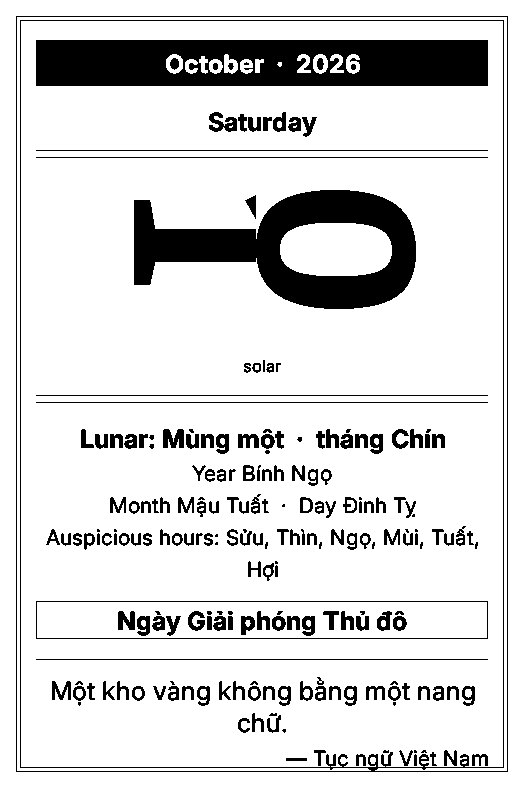
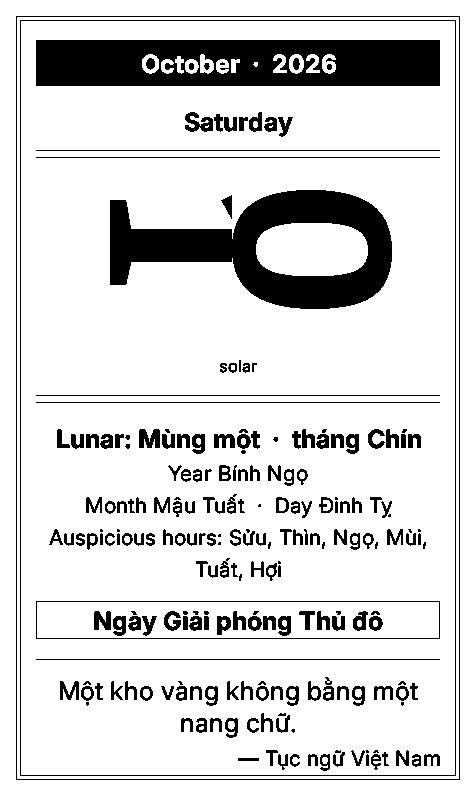
fix(calendar): share readLocalDateTime with the calendar sleep screen
CalendarBlockScreen had its own RTC and offset helper which bailed in simulator builds where HalClock starts unavailable. Passing the validated local date from SleepActivity reuses the existing fallback to session time and keeps the calendar screen rendering identically across simulated and physical targets.

diff --git a/src/components/calendar/CalendarBlockScreen.cpp b/src/components/calendar/CalendarBlockScreen.cpp
@@ -1,7 +1,6 @@
 #include "CalendarBlockScreen.h"
 
 #include <GfxRenderer.h>
-#include <HalClock.h>
 #include <I18n.h>
 #include <LunarCalendar.h>
 
@@ -112,59 +111,6 @@ constexpr int kHeroDigitGap = 10;  // space between two day digits
 constexpr uint16_t kMinSolarYear = 1900;
 constexpr uint16_t kMaxSolarYear = 2100;
 
-void shiftDay(uint16_t& year, uint8_t& month, uint8_t& day, const int delta) {
-  if (delta == 0) return;
-  if (delta > 0) {
-    if (static_cast<int>(day) < gregorianDaysInMonth(month, year)) {
-      day++;
-      return;
-    }
-    day = 1;
-    if (month == 12) {
-      month = 1;
-      year++;
-    } else {
-      month++;
-    }
-    return;
-  }
-  if (day > 1) {
-    day--;
-    return;
-  }
-  if (month == 1) {
-    month = 12;
-    year--;
-  } else {
-    month--;
-  }
-  day = static_cast<uint8_t>(gregorianDaysInMonth(month, year));
-}
-
-// The RTC keeps UTC; the printed page must show the wall-clock day, which rolls
-// over at local midnight exactly like HalClock::formatDate().
-bool localDate(uint16_t& year, uint8_t& month, uint8_t& day) {
-  uint16_t utcYear = 0;
-  uint8_t utcMonth = 0;
-  uint8_t utcDay = 0;
-  uint8_t hour = 0;
-  uint8_t minute = 0;
-  if (!halClock.getDateTime(utcYear, utcMonth, utcDay, hour, minute)) return false;
-
-  uint8_t offsetQuarterHours = SETTINGS.clockUtcOffsetQ;
-  if (offsetQuarterHours > 104) offsetQuarterHours = 104;
-  const int localMinutes =
-      static_cast<int>(hour) * 60 + static_cast<int>(minute) + (static_cast<int>(offsetQuarterHours) - 48) * 15;
-  const int dayDelta = localMinutes < 0 ? -1 : (localMinutes >= 1440 ? 1 : 0);
-
-  year = utcYear;
-  month = utcMonth;
-  day = utcDay;
-  shiftDay(year, month, day, dayDelta);
-  if (month < 1 || month > 12) return false;
-  return day >= 1 && static_cast<int>(day) <= gregorianDaysInMonth(month, year);
-}
-
 float configuredTimeZoneHours() {
   uint8_t offsetQuarterHours = SETTINGS.clockUtcOffsetQ;
   if (offsetQuarterHours > 104) offsetQuarterHours = 104;
@@ -230,7 +176,7 @@ void drawCenteredFitted(const GfxRenderer& renderer, const int fontId, const int
 }
 
 void drawHeroDay(const GfxRenderer& renderer, const int centerX, const int top, const uint8_t day) {
-  char digits[3] = {0, 0, 0};
+  char digits[8] = {0};
   std::snprintf(digits, sizeof(digits), "%u", static_cast<unsigned>(day));
   const int count = static_cast<int>(std::strlen(digits));
 
@@ -253,16 +199,12 @@ void drawHeroDay(const GfxRenderer& renderer, const int centerX, const int top, 
 
 }  // namespace
 
-bool draw(const GfxRenderer& renderer) {
-  uint16_t year = 0;
-  uint8_t month = 0;
-  uint8_t day = 0;
-  if (!localDate(year, month, day)) {
-    return false;
-  }
-  if (year < kMinSolarYear || year > kMaxSolarYear) {
-    return false;
-  }
+bool draw(const GfxRenderer& renderer, const uint16_t year, const uint8_t month, const uint8_t day) {
+  // The caller hands over a local date; validate it before printing anything, so
+  // an unset RTC falls back to the default screen instead of inventing a page.
+  if (year < kMinSolarYear || year > kMaxSolarYear) return false;
+  if (month < 1 || month > 12) return false;
+  if (day < 1 || static_cast<int>(day) > gregorianDaysInMonth(month, year)) return false;
 
   const LunarDate lunar = solarToLunar(day, month, year, configuredTimeZoneHours());
   const int julianDay = static_cast<int>(jdFromGregorian(day, month, year));

diff --git a/src/activities/boot_sleep/SleepActivity.cpp b/src/activities/boot_sleep/SleepActivity.cpp
@@ -964,12 +964,27 @@ void SleepActivity::renderDashboardSleepScreen() const {
   renderer.displayBuffer(HalDisplay::HALF_REFRESH, TURN_OFF_SCREEN_AFTER_SLEEP_REFRESH);
 }
 
+namespace {
+// Defined with the other sleep-screen helpers at the bottom of this file.
+bool readLocalDateTime(struct tm& out);
+}  // namespace
+
 void SleepActivity::renderCalendarSleepScreen() const {
-  // The page is printed from the wall-clock day the device went to sleep. There
-  // is deliberately no clock on it: the panel keeps this frame until the next
-  // wake, so a time readout would be wrong within minutes.
-  if (!CalendarBlockScreen::draw(renderer)) {
+  // The page prints the wall-clock day the device went to sleep, resolved by the
+  // same helper the lunar and weather screens use, so an unset RTC falls back to
+  // the session clock instead of losing the screen. There is deliberately no
+  // clock on the page: the panel keeps this frame until the next wake.
+  struct tm localTime = {};
+  if (!readLocalDateTime(localTime)) {
     LOG_ERR("SLP", "Calendar sleep screen has no usable date; falling back to the default screen");
+    return renderDefaultSleepScreen();
+  }
+  const auto year = static_cast<uint16_t>(localTime.tm_year + 1900);
+  const auto month = static_cast<uint8_t>(localTime.tm_mon + 1);
+  const auto day = static_cast<uint8_t>(localTime.tm_mday);
+  if (!CalendarBlockScreen::draw(renderer, year, month, day)) {
+    LOG_ERR("SLP", "Calendar sleep screen cannot print %04u-%02u-%02u; falling back to the default screen",
+            static_cast<unsigned>(year), static_cast<unsigned>(month), static_cast<unsigned>(day));
     return renderDefaultSleepScreen();
   }
   renderer.displayBuffer(HalDisplay::HALF_REFRESH, TURN_OFF_SCREEN_AFTER_SLEEP_REFRESH);

diff --git a/src/components/calendar/CalendarBlockScreen.h b/src/components/calendar/CalendarBlockScreen.h
@@ -1,5 +1,7 @@
 #pragma once
 
+#include <cstdint>
+
 class GfxRenderer;
 
 // Tear-off calendar ("lịch bloc") sleep screen.
@@ -15,8 +17,9 @@ class GfxRenderer;
 namespace CalendarBlockScreen {
 
 // Paints the page into the current framebuffer but does not refresh the panel;
-// the caller owns the display refresh. Returns false when there is no usable
-// date to print, in which case nothing was drawn.
-bool draw(const GfxRenderer& renderer);
+// the caller owns the display refresh. The caller also resolves the local date,
+// so this component never touches the RTC or the UTC offset.
+// Returns false when the date cannot be printed, in which case nothing was drawn.
+bool draw(const GfxRenderer& renderer, uint16_t year, uint8_t month, uint8_t day);
 
 }  // namespace CalendarBlockScreen
